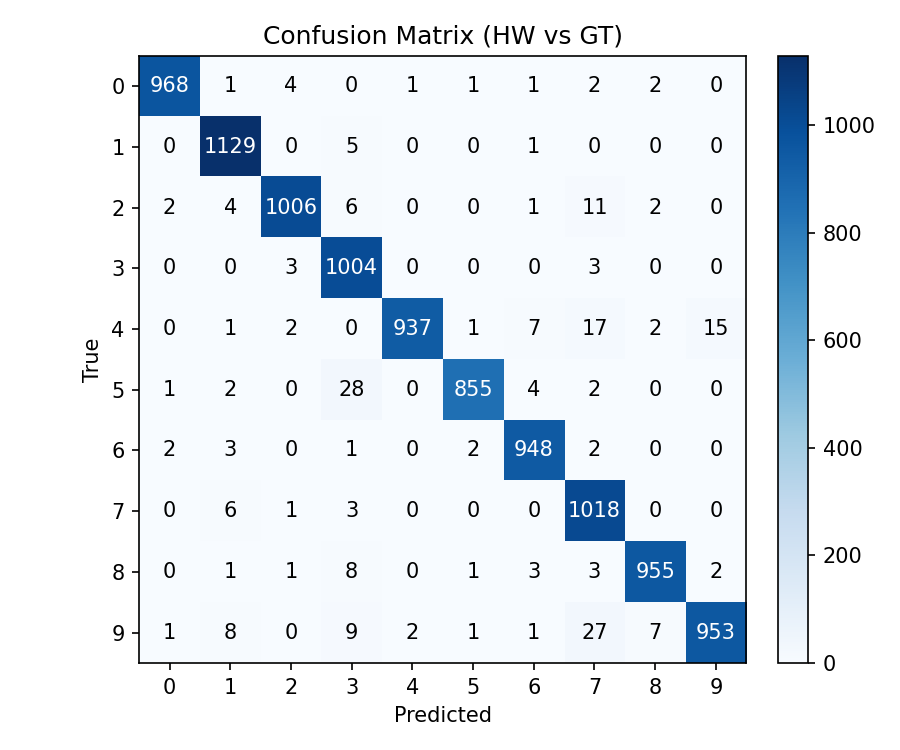
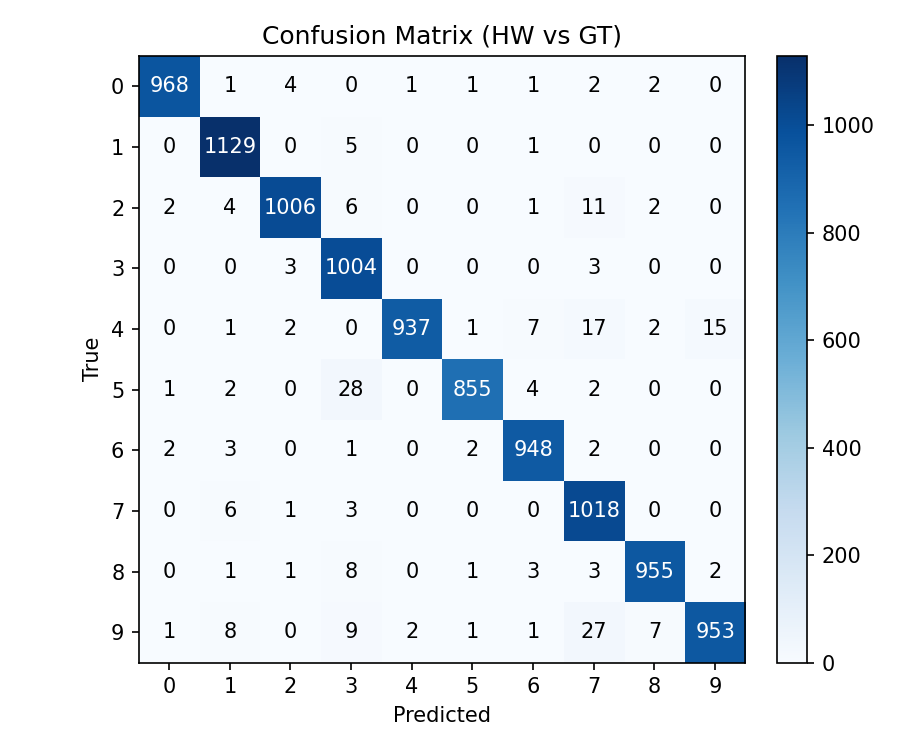
Add power analysis metrics and histogram plotting to validate_results.py
- Implemented power consumption metrics including average, min, max power,
  and energy per sample calculations.
- Added optional histogram plot for power consumption, saved as
  'power_histogram.png'.
- Updated usage documentation to reflect new power analysis features.

diff --git a/axi_stream_driver.py b/axi_stream_driver.py
@@ -1,18 +1,66 @@
 from datetime import datetime
-
 import numpy as np
+import threading
+import time
 from pynq import Overlay, allocate
+import smbus2
 
 
 class NeuralNetworkOverlay(Overlay):
     def __init__(
         self, bitfile_name, x_shape, y_shape, dtype=np.float32, dtbo=None, download=True, ignore_version=False, device=None
     ):
-        super().__init__(bitfile_name, dtbo=None, download=True, ignore_version=False, device=None)
+        super().__init__(bitfile_name, dtbo=dtbo, download=download, ignore_version=ignore_version, device=device)
         self.sendchannel = self.hier_0.axi_dma_0.sendchannel
         self.recvchannel = self.hier_0.axi_dma_0.recvchannel
         self.input_buffer = allocate(shape=x_shape, dtype=dtype)
         self.output_buffer = allocate(shape=y_shape, dtype=dtype)
+
+        # INA260 setup
+        self.i2c_bus = smbus2.SMBus(1)
+        self.ina260_addr = 0x40
+        self._power_samples = []
+        self._sampling_thread = None
+        self._sampling_active = False
+
+    def _read_power_mw(self):
+        """Reads power in milliwatts from the INA260 sensor."""
+        try:
+            power_reg = 0x03
+            raw = self.i2c_bus.read_word_data(self.ina260_addr, power_reg)
+            raw = ((raw & 0xFF) << 8) | (raw >> 8)
+            return raw * 1.25
+        except Exception as e:
+            print("INA260 read error:", e)
+            return 0
+
+    def _power_sampling_worker(self, interval=0.01):
+        """Background thread to sample INA260 power."""
+        self._power_samples = []
+        while self._sampling_active:
+            power = self._read_power_mw()
+            timestamp = time.time()
+            self._power_samples.append((timestamp, power))
+            time.sleep(interval)
+
+    def _start_power_monitoring(self):
+        self._sampling_active = True
+        self._sampling_thread = threading.Thread(target=self._power_sampling_worker, daemon=True)
+        self._sampling_thread.start()
+
+    def _stop_power_monitoring(self):
+        self._sampling_active = False
+        if self._sampling_thread:
+            self._sampling_thread.join()
+
+    def _compute_avg_power(self):
+        if not self._power_samples:
+            return 0, 0
+        powers = [p for t, p in self._power_samples]
+        times = [t for t, p in self._power_samples]
+        duration = times[-1] - times[0] if len(times) > 1 else 0
+        avg_power = sum(powers) / len(powers)
+        return avg_power, duration
 
     def _print_dt(self, timea, timeb, timec, N):
         dt_coms = timec - timea
@@ -22,60 +70,46 @@ class NeuralNetworkOverlay(Overlay):
         dt_inf = timec - timeb
         dts_inf = dt_inf.seconds + dt_inf.microseconds * 10**-6
         rate_inf = N / dts_inf
-        #print(f"Classified {N} samples in {dts} seconds ({rate} inferences / s)")
+
         return dts_coms, rate_coms, dts_inf, rate_inf
 
-    def predict(self, X, debug=False, profile=False, encode=None, decode=None):
+    def predict(self, X, debug=False, profile=False, power_profile=False, encode=None, decode=None):
         """
-        Obtain the predictions of the NN implemented in the FPGA.
-        Parameters:
-        - X : the input vector. Should be numpy ndarray.
-        - dtype : the data type of the elements of the input/output vectors.
-                  Note: it should be set depending on the interface of the accelerator; if it uses 'float'
-                  types for the 'data' AXI-Stream field, 'np.float32' dtype is the correct one to use.
-                  Instead if it uses 'ap_fixed<A,B>', 'np.intA' is the correct one to use (note that A cannot
-                  any integer value, but it can assume {..., 8, 16, 32, ...} values. Check `numpy`
-                  doc for more info).
-                  In this case the encoding/decoding has to be computed by the PS. For example for
-                  'ap_fixed<16,6>' type the following 2 functions are the correct one to use for encode/decode
-                  'float' -> 'ap_fixed<16,6>':
-                  ```
-                    def encode(xi):
-                        return np.int16(round(xi * 2**10)) # note 2**10 = 2**(A-B)
-                    def decode(yi):
-                        return yi * 2**-10
-                    encode_v = np.vectorize(encode) # to apply them element-wise
-                    decode_v = np.vectorize(decode)
-                  ```
-        - profile : boolean. Set it to `True` to print the performance of the algorithm in term of `inference/s`.
-        - encode/decode: function pointers. See `dtype` section for more information.
-        - return: an output array based on `np.ndarray` with a shape equal to `y_shape` and a `dtype` equal to
-                  the namesake parameter.
+        Run inference with optional timing and threaded power monitoring.
         """
-        if profile:
+        if profile or power_profile:
             timea = datetime.now()
+        if power_profile:
+            self._start_power_monitoring()
+            time.sleep(0.02)  # optional warm-up
+
         if encode is not None:
             X = encode(X)
         self.input_buffer[:] = X
         self.sendchannel.transfer(self.input_buffer)
         self.recvchannel.transfer(self.output_buffer)
-        if debug:
-            print("Transfer OK")
         self.sendchannel.wait()
-        if profile:
+
+        if profile or power_profile:
             timeb = datetime.now()
-        if debug:
-            print("Send OK")
+
         self.recvchannel.wait()
-        if debug:
-            print("Receive OK")
-        # result = self.output_buffer.copy()
+
+        if power_profile:
+            self._stop_power_monitoring()
+
         if decode is not None:
             self.output_buffer = decode(self.output_buffer)
 
-        if profile:
+        if profile or power_profile:
             timec = datetime.now()
+
+        # Results
+        out = [self.output_buffer]
+        if profile:
             dts1, rate1, dts2, rate2 = self._print_dt(timea, timeb, timec, 1)
-            return self.output_buffer, dts1, rate1, dts2, rate2
-        else:
-            return self.output_buffer
+            out.extend([dts1, rate1, dts2, rate2])
+        if power_profile:
+            avg_power, power_duration = self._compute_avg_power()
+            out.extend([avg_power, power_duration])
+        return tuple(out) if len(out) > 1 else out[0]

diff --git a/on_target.py b/on_target.py
@@ -3,21 +3,15 @@
 FPGA-based MNIST Inference (INT16 Q6.10) — Single Image Mode
 ------------------------------------------------------------
 Processes each quantized MNIST test image individually using the FPGA accelerator.
-Displays logits and timing metrics, with optional progress bar.
+Displays logits, timing, and power metrics, with optional progress bar.
 
 Usage:
     python on_target.py --bitstream bitstreams/quant50/quant50_cnn.bit
-
-Optional arguments:
-    python on_target.py -b path/to/bit.bit \
-            --metrics-dir path/to/metrics/ \
-            --no-progress
 """
 from __future__ import annotations
 
 import argparse
 import os
-from datetime import datetime
 from typing import Tuple
 
 import numpy as np
@@ -47,35 +41,58 @@ def allocate_overlay(bitstream: str, feature_dim: int) -> NeuralNetworkOverlay:
         dtype=np.int16,
     )
 
-def run_per_sample(nn: NeuralNetworkOverlay, X: np.ndarray, show_bar: bool) -> Tuple[np.ndarray, np.ndarray, np.ndarray]:
-    """Runs inference on each sample in X using the FPGA overlay."""
+def run_per_sample(nn: NeuralNetworkOverlay, X: np.ndarray, show_bar: bool) -> Tuple[np.ndarray, ...]:
+    """Runs inference on each sample in X using the FPGA overlay with timing and power profiling."""
     n_samples, _ = X.shape
     y_pred_f32 = np.empty((n_samples, OUTPUT_DIM), dtype=np.float32)
     latency_s_coms = np.empty(n_samples, dtype=np.float32)
     throughput_coms = np.empty(n_samples, dtype=np.float32)
     latency_s_inf = np.empty(n_samples, dtype=np.float32)
     throughput_inf = np.empty(n_samples, dtype=np.float32)
+    power_mw = np.empty(n_samples, dtype=np.float32)
+    power_duration = np.empty(n_samples, dtype=np.float32)
 
     iterator = tqdm(range(n_samples), unit="sample", disable=show_bar, desc="Inference", dynamic_ncols=True) if not show_bar else range(n_samples)
 
     for idx in iterator:
         sample_i16 = X[idx]
-        raw_pred_i16, dt_coms, rate_coms, dt_inf, rate_inf = nn.predict(
+        result = nn.predict(
             sample_i16,
             profile=True,
+            power_profile=True,
             encode=None,  # Already quantized
             decode=None,
         )
+        (
+            raw_pred_i16,
+            dt_coms,
+            rate_coms,
+            dt_inf,
+            rate_inf,
+            avg_power,
+            power_time
+        ) = result
+
         y_pred_f32[idx] = decode_arr(raw_pred_i16.copy())
         latency_s_coms[idx] = dt_coms
         throughput_coms[idx] = rate_coms
         latency_s_inf[idx] = dt_inf
         throughput_inf[idx] = rate_inf
+        power_mw[idx] = avg_power
+        power_duration[idx] = power_time
 
     if isinstance(iterator, tqdm):
         iterator.close()
 
-    return y_pred_f32, latency_s_coms, throughput_coms, latency_s_inf, throughput_inf
+    return (
+        y_pred_f32,
+        latency_s_coms,
+        throughput_coms,
+        latency_s_inf,
+        throughput_inf,
+        power_mw,
+        power_duration,
+    )
 
 def main():
     args = parse_args()
@@ -89,7 +106,15 @@ def main():
     nn = allocate_overlay(args.bitstream, feat_dim)
 
     print("3. Starting inference...")
-    y_hw_f32, latency_s_coms, throughput_coms, latency_s_inf, throughput_inf  = run_per_sample(nn, X_test_i16, args.no_progress)
+    (
+        y_hw_f32,
+        latency_s_coms,
+        throughput_coms,
+        latency_s_inf,
+        throughput_inf,
+        power_mw,
+        power_duration
+    ) = run_per_sample(nn, X_test_i16, args.no_progress)
 
     print("4. Calculating accuracy...")
     pred = np.argmax(y_hw_f32, axis=1)
@@ -103,6 +128,8 @@ def main():
     np.save(os.path.join(args.metrics_dir, "throughput1.npy"), throughput_coms)
     np.save(os.path.join(args.metrics_dir, "latency2.npy"), latency_s_inf)
     np.save(os.path.join(args.metrics_dir, "throughput2.npy"), throughput_inf)
+    np.save(os.path.join(args.metrics_dir, "power_mw.npy"), power_mw)
+    np.save(os.path.join(args.metrics_dir, "power_duration.npy"), power_duration)
     print("Metrics saved to", args.metrics_dir)
 
 if __name__ == "__main__":

diff --git a/validate_results.py b/validate_results.py
@@ -6,23 +6,15 @@ Checks FPGA predictions against MNIST ground‑truth and, if available,
 against a *golden* reference dump. Generates / shows confusion matrix &
 ROC plots and prints latency / throughput statistics when present.
 
+Also supports power analysis (avg / min / max / hist / energy per sample)
+if `power_mw.npy` and `power_duration.npy` are present.
+
 Usage
 -----
 $ python validate_results.py -m metrics/            # default names
 $ python validate_results.py -m runs/exp1 \
       --y-hw hw_logits.npy --golden golden.npy \
       --no-show                                    # skip inline display
-
-Outputs
--------
-• Accuracy (HW vs ground‑truth)
-• Accuracy (HW vs golden) — only if golden file found
-• Avg / σ / min / max latency & throughput (optional)
-• confusion_matrix.png
-• roc_curve.png
-
-All images are saved inside `--metrics-dir` and also displayed unless
-`--no-show` is set or the backend is headless.
 """
 from __future__ import annotations
 
@@ -31,6 +23,7 @@ import os
 import sys
 from pathlib import Path
 from typing import Tuple
+import warnings
 
 import numpy as np
 import matplotlib.pyplot as plt
@@ -42,7 +35,6 @@ from sklearn.metrics import (
 )
 
 # --- ensure local project modules are importable ----------
-from pathlib import Path
 PROJECT_DIR = Path(__file__).resolve().parent
 if str(PROJECT_DIR) not in sys.path:
     sys.path.insert(0, str(PROJECT_DIR))  # add <ai_on_fpga/> directory to PYTHONPATH
@@ -197,6 +189,41 @@ def main():
         print("\nLatency / Throughput (inference times):")
         print(f"  latency   : {lat2.mean()*1e3:.4f} ms ± {lat2.std()*1e3:.4f} (min {lat2.min()*1e3:.4f}, max {lat2.max()*1e3:.4f})")
         print(f"  throughput: {thr2.mean():.4f} inf/s ± {thr2.std():.4f}")
+
+    # --- POWER METRICS ---
+    power_path = mdir / "power_mw.npy"
+    duration_path = mdir / "power_duration.npy"
+    if power_path.exists() and duration_path.exists():
+        power_vals = np.load(power_path)
+        duration_vals = np.load(duration_path)
+
+        avg_power = power_vals.mean()
+        std_power = power_vals.std()
+        min_power = power_vals.min()
+        max_power = power_vals.max()
+
+        total_energy_j = (power_vals * duration_vals).sum() / 1e3  # mW * s = mJ → J
+        energy_per_sample_mj = (power_vals * duration_vals).mean()
+
+        print("\nPower Consumption:")
+        print(f"  avg power     : {avg_power:.2f} mW ± {std_power:.2f}")
+        print(f"  min/max power : {min_power:.2f} / {max_power:.2f} mW")
+        print(f"  energy/sample : {energy_per_sample_mj:.4f} mJ")
+        print(f"  total energy  : {total_energy_j*1e3:.2f} mJ")
+
+        # Optional histogram plot
+        try:
+            fig, ax = plt.subplots(figsize=(6,4))
+            ax.hist(power_vals, bins=30, color="skyblue", edgecolor="black")
+            ax.set_title("Power Consumption Histogram")
+            ax.set_xlabel("Power (mW)")
+            ax.set_ylabel("Frequency")
+            fig.tight_layout()
+            hist_path = mdir / "power_histogram.png"
+            fig.savefig(hist_path, dpi=150)
+            print(f"Power histogram saved → {hist_path}")
+        except Exception as e:
+            warnings.warn(f"Could not plot power histogram: {e}")
 
     # Confusion Matrix plot
     cm = confusion_matrix(np.argmax(y_true,1), np.argmax(y_hw,1))
